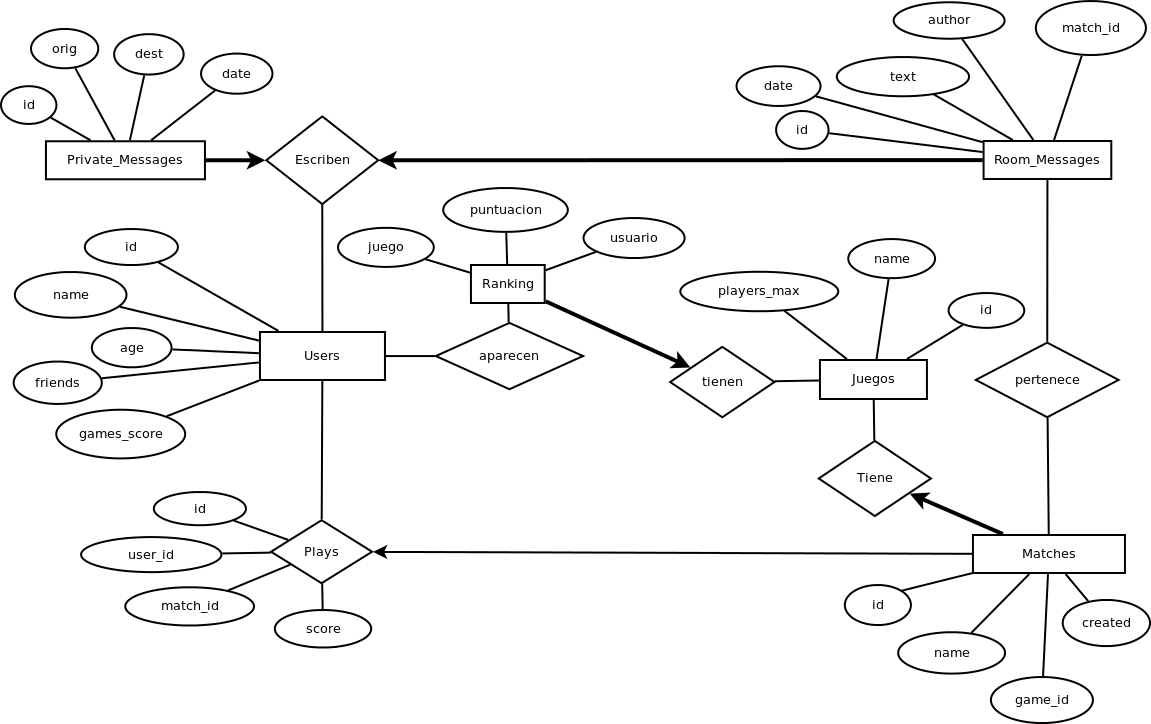
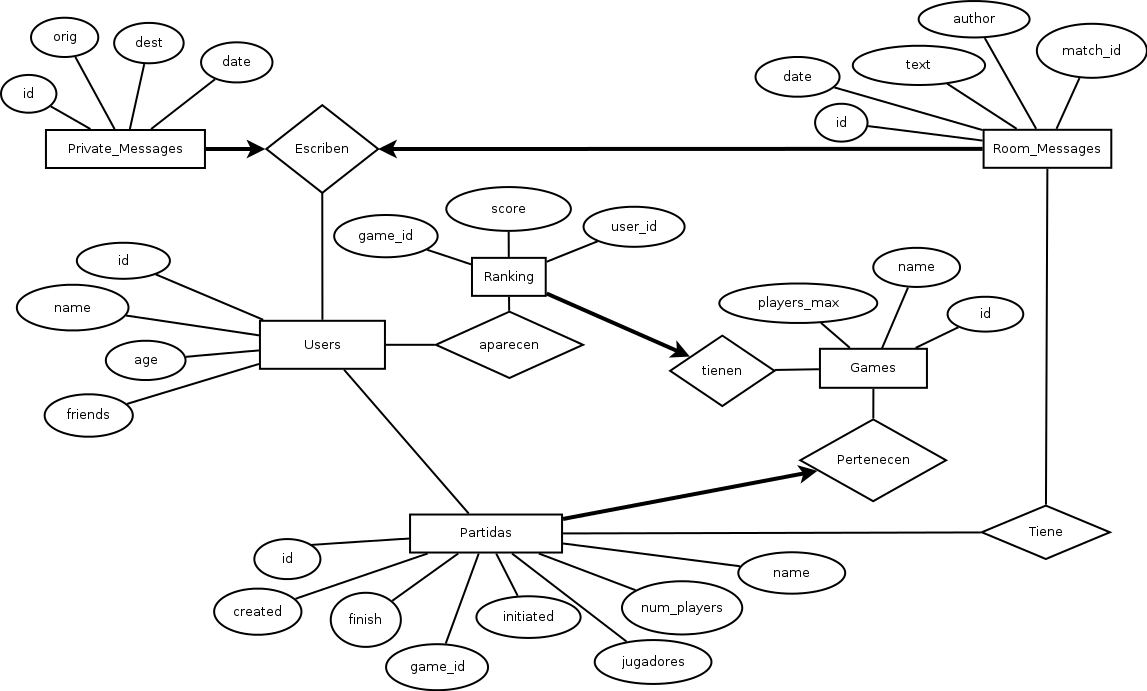
Integrado ranking y act D. ER

diff --git a/PL-LowerLayers/prototipo-5/client/client.js b/PL-LowerLayers/prototipo-5/client/client.js
@@ -14,6 +14,7 @@ Meteor.startup(function () {
 	$('#frootwarscontainer').hide();
 //---------------------------------------------
 	$('#clarcassonnecontainer').hide();
+	$("#byuserranking").hide();
 });
 
 //Cargo el efecto slider y pestañas
@@ -61,19 +62,46 @@ $(document).ready(function() {
 //---------------------------------------------
 });
 
+////// RELLENAR PLANTILLAS /////////
+
 //Ordena los amigos alfabeticamente
 Template.userstemp.users = function(){
 	return Meteor.users.find({},{sort:{username:1}});
 }
 
-//Encuentra usuarios conectados
-Template.loguserstemp.logusers = function(){
-	return Meteor.users.find({"services.resume.loginTokens" : {$not : []}});
-}
-
 //Encuentra juegos
 Template.gamestemp.games=function(){
 	return Games.find();
+}
+
+//Encuentra juegos para ranking
+Template.gamesrankingtemp.games=function(){
+	return Games.find();
+}
+
+//Mostramos puntuaciones para un juego
+Template.gamesrankingtemp.events = {
+	'click .linkgameranking':function(event){
+		$("#ranking").children().hide();
+		$("#ranking").append($(this)[0].name);
+		Session.set('game', $(this)[0].name);
+	}
+}
+
+// Mostramos puntuaciones para un usuario
+Template.userstemp.events = {
+	'click .linkuserranking':function(event){
+		$("#ranking").children().hide();
+		$("#ranking").append($(this)[0].username);
+		Session.set('user', $(this)[0].username);
+		$("#byuserranking").fadeIn();
+		//console.log(Games.findOne({_id : Session.get('game_id')}).name);//$(this)[0]._id);
+	}
+}
+
+//Encuentra usuarios conectados
+Template.loguserstemp.logusers = function(){
+	return Meteor.users.find({"services.resume.loginTokens" : {$not : []}});
 }
 
 //Encuentra partidas
@@ -118,6 +146,14 @@ Template.roomplayerstemp.players=function(){
 	return players_names;
 }
 
+//Carga puntuaciones para usuario
+Template.byuserrankingtemp.ranking=function(){
+	var ranking = Ranking.find({user: Session.get("user")});
+	return ranking;
+}
+
+///////////// SUSBSCRIPCIONES ////////////////
+
 //Subscripcion a lista de usuarios
 var usersLoaded = false;
 Meteor.subscribe("users", function () {
@@ -142,6 +178,16 @@ Deps.autorun(function () {
 	Meteor.subscribe("messages", current_match_id);
 });
 
+//Subscripción selectiva a ranking
+Deps.autorun(function () {
+	var selected_game_id = Session.get("game")
+	var selected_user_id = Session.get("user")
+	console.log("selectedgame: "+selected_game_id);
+	console.log("selecteduser: "+selected_user_id);
+	Meteor.subscribe("ranking", selected_game_id, selected_user_id);
+});
+
+
 //Cambios reactivos de la interfaz
 Deps.autorun(function () {
 
@@ -157,15 +203,7 @@ Deps.autorun(function () {
 });
 
 
-
-
-
-
-
-
-
-
-//Inserta mensajes del chat
+//Inserta mensajes del chat de sala
 Template.input.events = {
 	'keydown input#message':function(event){
 		if(event.which==13){
@@ -188,14 +226,7 @@ Template.input.events = {
 	}
 }
 
-
-
-
-
-
-
-
-
+/////////// CHAT PRIVADO //////////
 
 //Pinta lista de amigos conectados, tiene que ser reactivo porque no esta disponible desde el comienzo
 Deps.autorun(function () {
@@ -221,12 +252,6 @@ Deps.autorun(function () {
 		}	
 	}		
 });
-
-
-
-
-
-
 
 var mychats = new Array();
 //Cada vez que hago click en un amigo conectado se inserta una pestaña de chat
@@ -266,16 +291,6 @@ $(document).on("click", ".closechattab", function() {
 		if (mychats.length==0)
 			$("#chatTabs").hide();
 });
-
-
-
-
-
-
-
-
-
-
 
 
 //Para buscar y añadir usuarios, esta detecta cuando se escribe en el formulario
@@ -368,17 +383,7 @@ function deleteFriend(idUser,idAborrar) {
 	Meteor.users.update({_id: idUser}, {$set: {amigos: listAmigos}});
 }
 
-
-
-
-
-
-
-
-
-
-
-
+//////// JUEGOS ////////
 
 // Abrimos sesión en uno de los juegos
 Template.gamestemp.events = {
@@ -468,17 +473,6 @@ Template.roomgametemp.events = {
 		$('#matches').fadeIn();
 	}
 };
-
-
-
-
-
-
-
-
-
-
-
 
 //Configuracion cuentas
 Accounts.ui.config({

diff --git a/PL-LowerLayers/prototipo-5/client/client.html b/PL-LowerLayers/prototipo-5/client/client.html
@@ -3,14 +3,6 @@
 </head>
 
 <body>
-        <div id="fb-root"></div>
-<script>(function(d, s, id) {
-  var js, fjs = d.getElementsByTagName(s)[0];
-  if (d.getElementById(id)) return;
-  js = d.createElement(s); js.id = id;
-  js.src = "//connect.facebook.net/es_LA/all.js#xfbml=1";
-  fjs.parentNode.insertBefore(js, fjs);
-}(document, 'script', 'facebook-jssdk'));</script>
 	<div id="div-login-button">{{loginButtons}}</div>
 	<div id="titulo" Size="6">X-ADrian</div>
 	<div class="fb-like" data-href="http://lowerlayers.meteor.com/" data-layout="standard" data-action="like" data-show-faces="true" data-share="true"></div>
@@ -32,8 +24,7 @@
 		    <IMG  SRC="carcassonne.jpg">
 		    <IMG  SRC="alieninvasion.png">
 		</div>
-	</div>
-	
+	</div>	
 </template>
 
 <template name="tabstemp">
@@ -43,7 +34,7 @@
 			<li><a href="#ranking">Ranking</a></li>
 		</ul>
 		<div id="juegos">{{> gamestemp}} {{> matchestemp}} {{> roomgametemp}}</div>
-		<div id="ranking">Por juegos:{{> gamestemp}} Por Usuarios: {{> userstemp}} </div>
+		<div id="ranking">{{> gamesrankingtemp}} {{> userstemp}} {{> byuserrankingtemp}} </div>
 	</div>
 </template>
 
@@ -79,9 +70,28 @@
 
 <template name="userstemp">
 	<div id="users" >
+		Por usuarios:
 		{{# each users}}
-			<a href="#">{{username}}</a>
+			<a href="#" class="linkuserranking">{{username}}</a>
 		{{/each}}
+	</div>
+</template>
+
+<template name="gamesrankingtemp" >
+	<div id="gamesranking">
+		Por juegos:
+		{{# each games}}
+			<a style ="cursor:pointer;text-decoration:underline;" class="linkgameranking">{{name}}</a><br>
+		{{/ each}}
+	</div>
+</template>
+
+<template name="byuserrankingtemp">
+	<div id="byuserranking">
+		Juegos:
+		{{# each ranking}}
+			{{game}} {{score}}
+		{{/ each}}
 	</div>
 </template>
 

diff --git a/PL-LowerLayers/prototipo-5/server/server.js b/PL-LowerLayers/prototipo-5/server/server.js
@@ -10,36 +10,34 @@ Meteor.startup(function () {
 	if(Games.find({name:"Clarcassonne"}).count() == 0){
 		Games.insert({name:"Clarcassonne", players_max : 5});
 	};
+	/// Inicializacion para depurar
+	if (Ranking.find().count() == 0)
+		Ranking.insert({user:"miguel", game:"Alien_Invasion", score:0});
 });
 
-Meteor.publish("users", function() {
- 	
+Meteor.publish("users", function() { 	
 	return Meteor.users.find();
-
 });
 
-Meteor.publish("messages", function(current_match_id) {
- 	
+Meteor.publish("messages", function(current_match_id) { 	
 	return Messages.find({match_id: current_match_id});
-
 });
 
-Meteor.publish("games", function() {
- 	
+Meteor.publish("games", function() {	
 	return Games.find();
-
 });
 
 // Para cada cliente, publica la lista de partidas del juego en el que abre sesión.
 Meteor.publish("partidas", function(current_game_id) {
-
 	return Partidas.find({"game_id" : current_game_id});	
-
 });
 
-
-
-
+Meteor.publish("ranking", function(selected_game_id,selected_user_id){
+	if (selected_game_id==undefined)
+		return Ranking.find({"user": selected_user_id});
+	else
+		return Ranking.find({"game": selected_game_id});
+});
 
 Meteor.users.allow({
     update: function(userId, docs, fields, modifier) {

diff --git a/PL-LowerLayers/prototipo-5/style/froot-wars.css b/PL-LowerLayers/prototipo-5/style/froot-wars.css
@@ -1,8 +1,8 @@
-#gamecontainer {
-    margin:1cm;
+#frootwarscontainer {
+    margin:8cm;
     width:640px;
     height:480px;
-    background: url(images/splashscreen.png);
+    background: url(../images/splashscreen.png);
     border: 1px solid black;
 }
 
@@ -33,7 +33,7 @@
 #levelselectscreen input {
     margin:20px;
     cursor:pointer;
-    background:url(images/icons/level.png) no-repeat;
+    background:url(../images/icons/level.png) no-repeat;
     color:yellow;
     font-size: 20px;
     width:64px;
@@ -51,7 +51,7 @@
     text-align:center;
     height:48px;
     color:white;
-    background:url(images/loader.gif) no-repeat center;
+    background:url(../images/loader.gif) no-repeat center;
     font:12px Arial;
 }
 

diff --git a/PL-LowerLayers/prototipo-5/lib/models.js b/PL-LowerLayers/prototipo-5/lib/models.js
@@ -1,3 +1,4 @@
 Messages = new Meteor.Collection("messages");
 Games = new Meteor.Collection("games");
 Partidas = new Meteor.Collection("partidas");
+Ranking = new Meteor.Collection("ranking");
